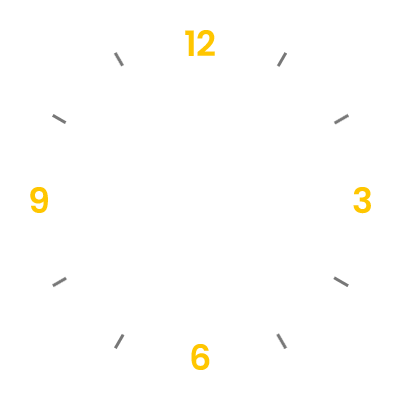
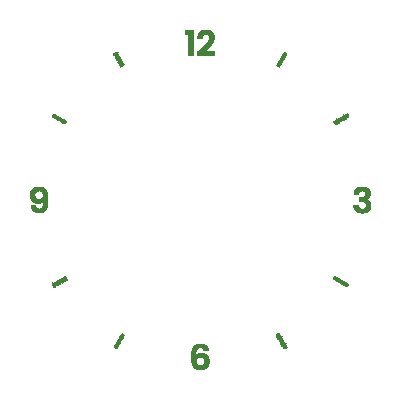
add js and fixed css

diff --git a/style.css b/style.css
@@ -9,7 +9,7 @@ body {
 	justify-content: center;
 	align-items: center;
 	min-height: 100vh;
-	background: #091921;
+	background: #1b4053;
 }
 
 .clock {
@@ -19,7 +19,6 @@ body {
 	justify-content: center;
 	align-items: center;
 	background: url(clock.png),
-		url(js.png),
 		radial-gradient(circle, rgb(37, 73, 90) 0%, rgb(25, 48, 60) 11%, rgba(9, 25, 33, 1) 38%);
 	background-size: cover;
 	box-shadow: 0 -15px 15px rgba(134, 134, 134, 0.35),
@@ -32,9 +31,9 @@ body {
 .clock::before {
 	content: '';
 	position: absolute;
-	width: 15px;
-	height: 15px;
-	background: #fff;
+	width: 12px;
+	height: 12px;
+	background: #448337;
 	border-radius: 50%;
 	z-index: 99;
 }
@@ -47,14 +46,14 @@ body {
 
 .clock .hour,
 .hr {
-	width: 160px;
-	height: 160px;
+	width: 120px;
+	height: 120px;
 }
 
 .clock .min,
 .mn {
-	width: 190px;
-	height: 190px;
+	width: 180px;
+	height: 180px;
 }
 
 .clock .sec,
@@ -75,9 +74,9 @@ body {
 .hr:before {
 	content: '';
 	position: absolute;
-	width: 8px;
-	height: 80px;
-	background-color: #ffc600;
+	width: 6px;
+	height: 60px;
+	background-color: #367684;
 	z-index: 10;
 	border-radius: 6px 6px 0 0;
 }
@@ -87,9 +86,9 @@ body {
 .mn:before {
 	content: '';
 	position: absolute;
-	width: 8px;
-	height: 80px;
-	background-color: #ffc600;
+	width: 6px;
+	height: 90px;
+	background-color: rgb(225, 208, 122);
 	z-index: 11;
 	border-radius: 6px 6px 0 0;
 }
@@ -99,7 +98,7 @@ body {
 	position: absolute;
 	width: 2px;
 	height: 150px;
-	background-color: #fff9e2;
+	background-color: #993535;
 	z-index: 12;
 	border-radius: 6px 6px 0 0;
 }

diff --git a/script.js b/script.js
@@ -1,0 +1,14 @@
+const deg = 6;
+const hr = document.querySelector('#hr');
+const sc = document.querySelector('#sc');
+
+setInterval(() => {
+	let day = new Date();
+let hh = day.getHours() * 30;
+let mm = day.getMinutes() * deg;
+let ss = day.getSeconds() * deg;
+
+hr.style.transform = `rotateZ(${(hh) + (mm/12)}deg)`;
+mn.style.transform = `rotateZ(${(mm)}deg)`;
+sc.style.transform = `rotateZ(${(ss)}deg)`;
+})

diff --git a/index.html b/index.html
@@ -13,13 +13,13 @@
 
 	<div class="clock">
 		<div class="hour">
-			<div class="hr"></div>
+			<div class="hr" id="hr"></div>
 		</div>
 		<div class="min">
-			<div class="mn"></div>
+			<div class="mn" id="mn"></div>
 		</div>
 		<div class="sec">
-			<div class="sc"></div>
+			<div class="sc" id="sc"></div>
 		</div>
 	</div>
 
